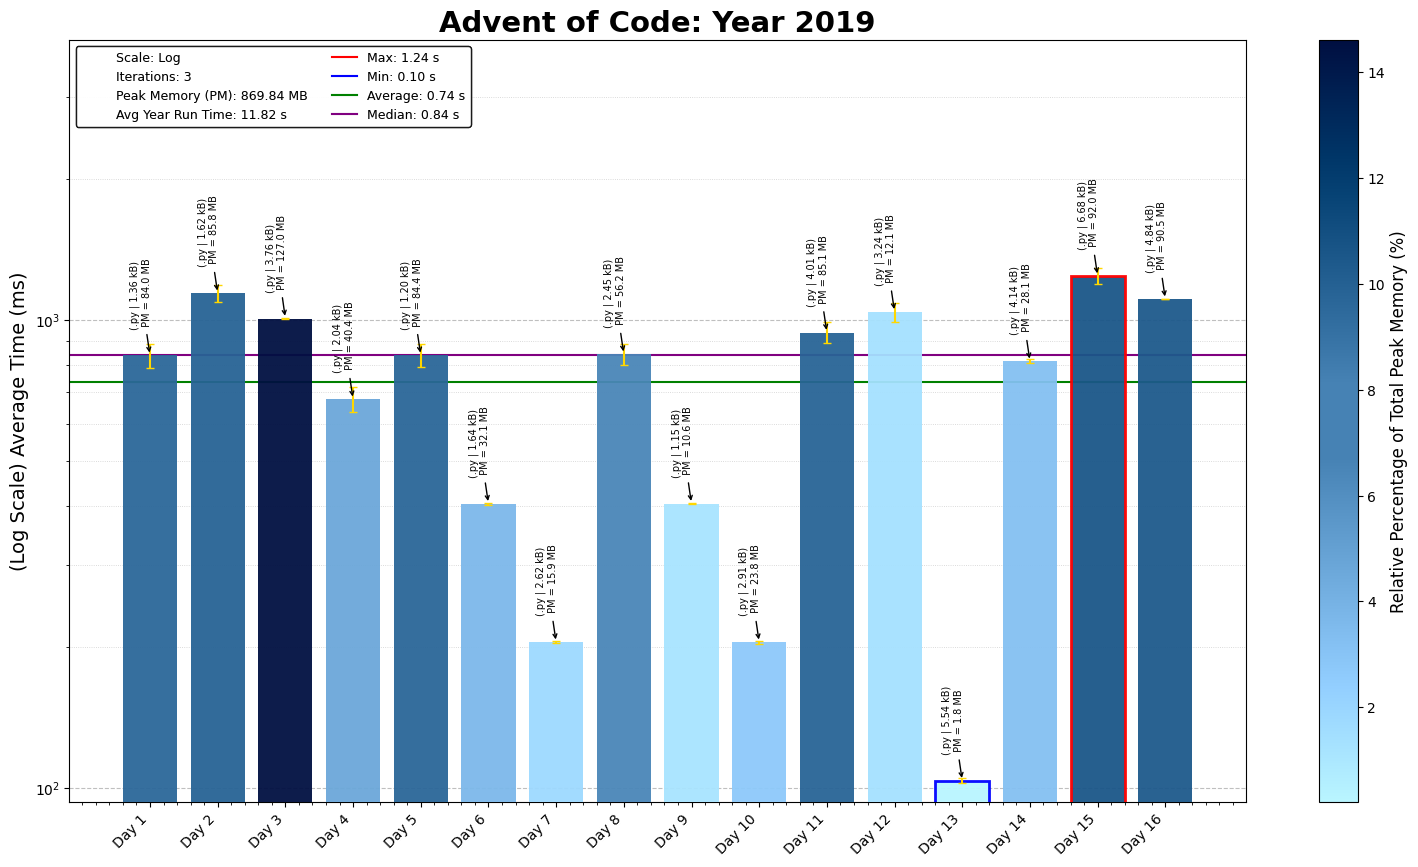
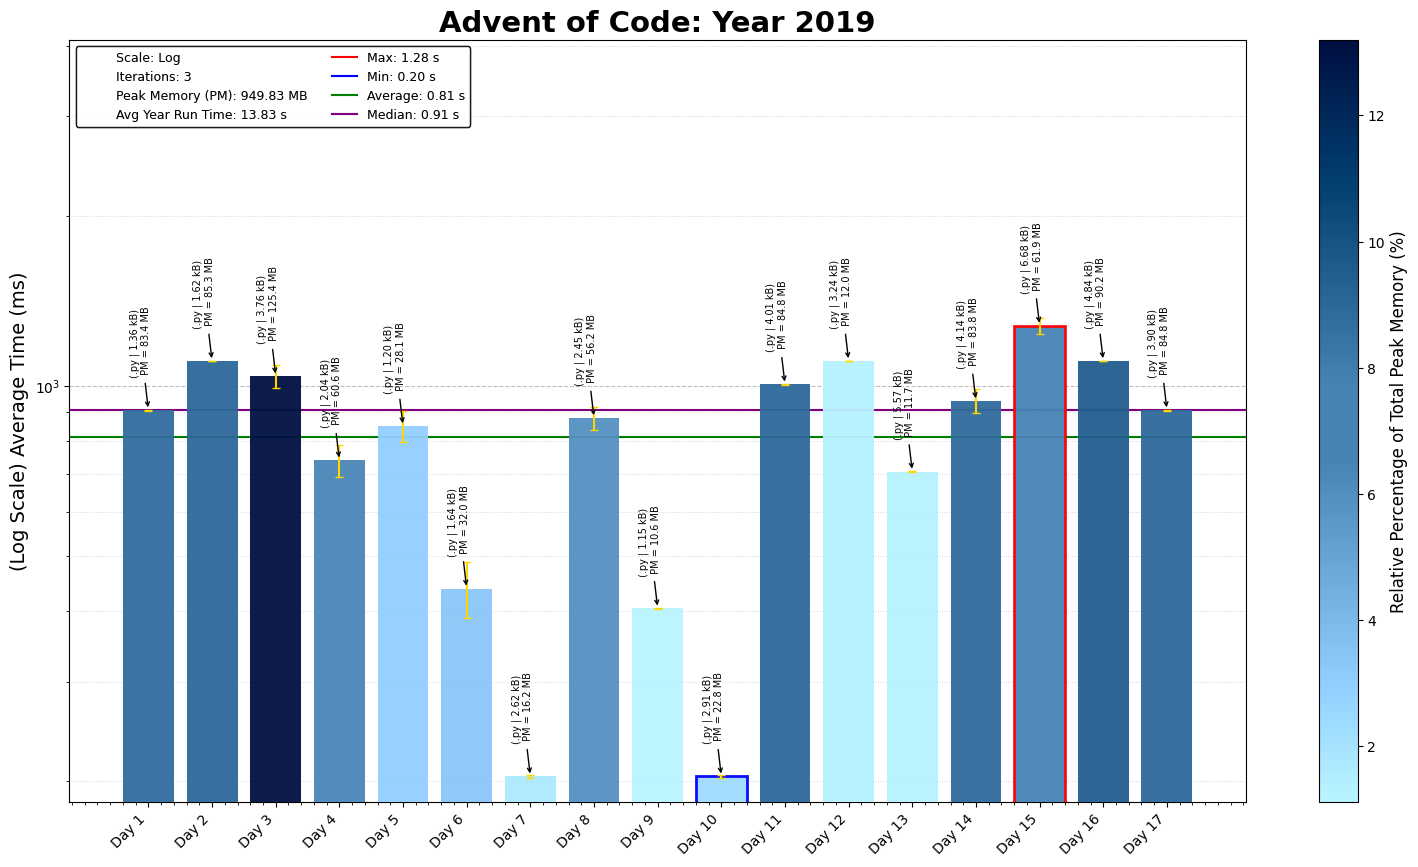
2019 Day 17 P1

diff --git a/2019/17/2019Day17.py b/2019/17/2019Day17.py
@@ -1,0 +1,119 @@
+"""Advent of Code - Day 17, Year 2019
+Solution Started: Jan 29, 2025
+Puzzle Link: https://adventofcode.com/2019/day/17
+Solution by: abbasmoosajee07
+Brief: [Intcode Navigators]
+"""
+
+#!/usr/bin/env python3
+
+import os, re, copy, time, sys
+import numpy as np
+import pandas as pd
+import matplotlib.pyplot as plt
+start_time = time.time()
+
+intcode_path = os.path.join(os.path.dirname(__file__), "..", "Intcode_Computer")
+sys.path.append(intcode_path)
+# from Intcode_Computer import Intcode_CPU
+
+# Load the input data from the specified file path
+D17_file = "Day17_input.txt"
+D17_file_path = os.path.join(os.path.dirname(os.path.abspath(__file__)), D17_file)
+
+# Read and sort input data into a grid
+with open(D17_file_path) as file:
+    input_data = file.read().strip().split(',')
+    input_program = [int(num) for num in input_data]
+
+class Intcode_Navigators:
+    def __init__(self, control_program: list[int]):
+        from Intcode_Computer import Intcode_CPU
+        self.navigator = Intcode_CPU(control_program)
+        self.DIRECTIONS = {'^': (0, -1), 'v': (0, 1), '<': (-1, 0), '>': (1, 0)}  # Movement directions
+
+    def get_next_position(self, base_pos: tuple, movement: int) -> tuple[int, int]:
+        """
+        Calculate the next position based on a movement direction.
+        """
+        x, y = base_pos
+        dx, dy = self.DIRECTIONS[movement]
+        return x + dx, y + dy
+
+    def build_scaffold(self, visualize: bool = False):
+        self.navigator.process_program()
+        nav_output = self.navigator.get_result('output')
+
+        x, y = (1, 1)
+        structure = {}
+        scaffold = set()
+        for ascii_code in nav_output:
+            x += 1
+            if ascii_code == 10:
+                y += 1
+                x = 0
+            else:
+                structure[(x, y)] = chr(ascii_code)
+                if chr(ascii_code) in '^v<>':
+                    self.robot_start = (x, y)
+                if ascii_code == 35:
+                    scaffold.add((x,y))
+
+        if visualize:
+            self.print_maze(structure)
+
+        self.structure = structure
+        self.scaffold = scaffold
+        return structure
+
+    def identify_intersections(self, visualize: bool = False):
+        intersections = set()
+        for base_pos in self.scaffold:
+            surrounding = 0
+            for test_dir in list(self.DIRECTIONS.keys()):
+                next_pos = self.get_next_position(base_pos, test_dir)
+                if next_pos in self.scaffold:
+                    surrounding += 1
+                else:
+                    break
+            if surrounding == 4:
+                self.structure[base_pos] = 'O'
+                intersections.add(base_pos)
+
+        if visualize:
+            self.print_maze(self.structure)
+
+        return intersections
+
+    def print_maze(self, grid_dict: dict, best_path: list = None):
+        """
+        Display the maze with the current state, optionally highlighting a path.
+        """
+        coords_set = set(grid_dict.keys())
+        min_x = min(x for x, _ in coords_set)
+        max_x = max(x for x, _ in coords_set)
+        min_y = min(y for _, y in coords_set)
+        max_y = max(y for _, y in coords_set)
+
+        tiles_grid = []
+        for y in range(min_y, max_y + 1):
+            row = ''
+            for x in range(min_x, max_x + 1):
+                row += grid_dict.get((x, y), ' ')
+                # row += '█' if '█'.encode().decode('utf-8', 'ignore') else '|'
+
+            tiles_grid.append(row)
+
+        print("\n".join(tiles_grid))
+        print("_" * len(tiles_grid[0]))
+        return tiles_grid
+
+navigator = Intcode_Navigators(input_program)
+scaffold = navigator.build_scaffold()
+
+intersections = navigator.identify_intersections()
+alignment = sum(((x-1) * (y-1)) for (x, y) in intersections)
+print("Part 1:", alignment)
+
+
+print(f"Execution Time = {time.time() - start_time:.5f}s")

diff --git a/2019/13/2019Day13.py b/2019/13/2019Day13.py
@@ -35,7 +35,6 @@ class Intcode_Arcade:
             self.software[0] = quarters  # Set position 0 to 2 for free play
 
         from Intcode_Computer import Intcode_CPU
-        import keyboard   # External library for capturing keyboard events
         self.console = Intcode_CPU(self.software)
 
     def run_console(self, joystick_input=None):
@@ -56,6 +55,8 @@ class Intcode_Arcade:
         original_tiles = {}
 
         if play_manually:
+            import keyboard   # External library for capturing keyboard events
+            show_screen = True
             print("Use Left/Right arrow keys to control the paddle. Press 'Esc' to quit.")
 
         while self.console.running:
